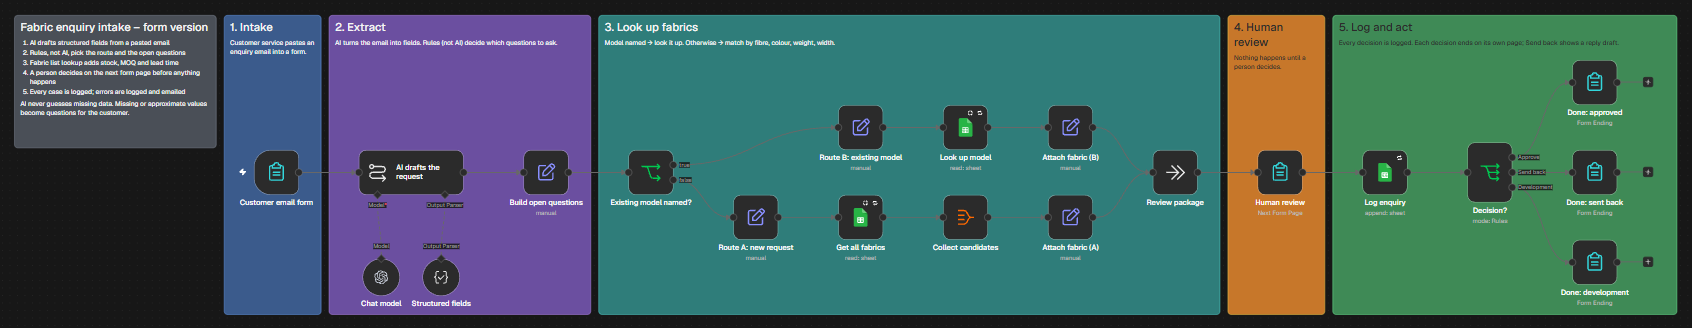
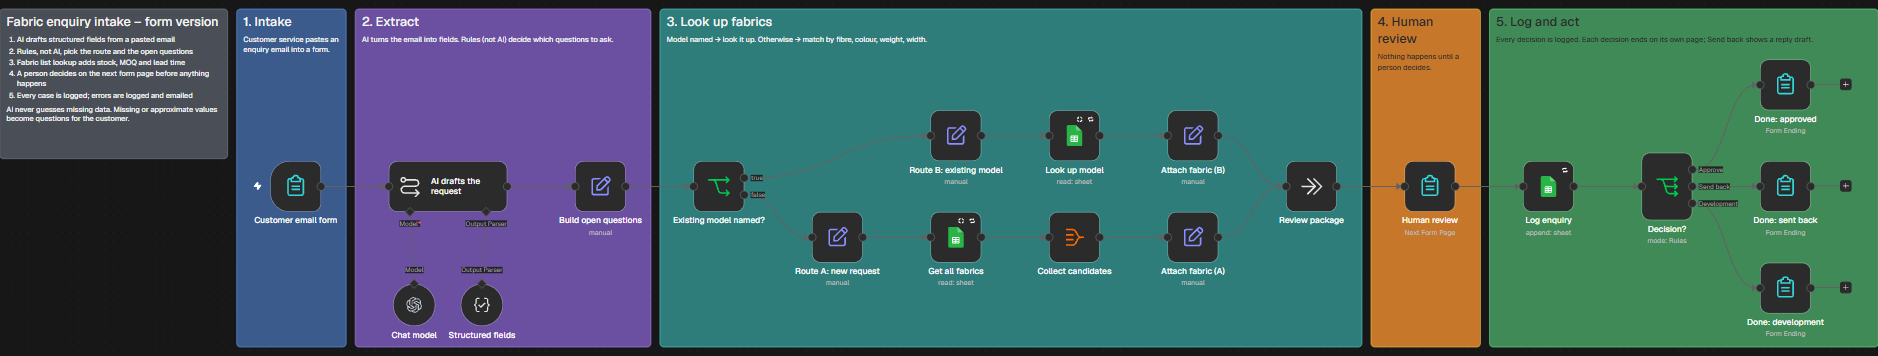
Add files via upload

Changed region(s): [[0.0, 0.0, 1.0, 1.0]]

diff --git a/case-n8n-en.html b/case-n8n-en.html
@@ -4,7 +4,7 @@
 <a class="skip" href="#main">Skip to content</a>
 <header class="site-header"><div class="wrap"><a class="logo" href="index-en.html">Keri Janschitz <small>PORTFOLIO</small></a><nav class="site-nav" aria-label="Main navigation"><a href="index-en.html#case-studies" aria-current="page">Case Studies</a><a href="index-en.html#tools">Tools</a><a href="index-en.html#playground">Playground</a><a href="index-en.html#about">About</a><a class="lang-switch" href="case-n8n.html" lang="zh-Hant" hreflang="zh-Hant" title="中文版">中文</a><a class="btn small primary" href="#c3">See the five stages</a></nav></div></header>
 <main id="main">
-<section class="cs-hero" id="top"><div class="wrap"><nav class="crumbs" aria-label="Breadcrumb"><a href="index-en.html">Portfolio home</a><span>/</span><a href="index-en.html#case-studies">Case Studies</a><span>/</span><span>n8n automation · Enquiry handling</span></nav><h1>Fabric Enquiry Workflow in n8n — AI drafts, rules decide, a person approves</h1><p class="cs-intro">A customer sends a loosely written enquiry. The workflow uses AI to turn it into fields, uses fixed rules to pick the route and list what is still missing, looks up stock and lead time in a fabric list, and emails a review request to the person in charge. Only after that person picks a decision is anything logged. When the customer needs to be asked something, a reply draft is ready, and it is never sent automatically. This is a working prototype on n8n Cloud. All data is fictional.</p><div class="actions"><a class="btn primary" href="#c3">See the five stages</a><a class="btn" href="#c4">See the five design decisions</a></div></div><div class="wrap"><ul class="cs-meta"><li>n8n · Workflow automation</li><li>Gmail · Google Sheets · LLM</li><li>2026 · Working prototype · Fictional data</li><li>Two versions: form and mailbox</li></ul></div><div class="wrap cs-hero-shots cs-hero-one"><figure><a href="assets/work-n8n-canvas.png" target="_blank" rel="noopener"><img src="assets/work-n8n-canvas.png" width="1420" height="478" alt="n8n canvas screenshot (Gmail version): intake, AI extraction, fabric lookup, human review, log and reply draft"></a><figcaption>Screenshot of the actual n8n canvas (Gmail version). The colours are my own section labels: purple is AI, teal is rules and lookups, orange is where a person decides. Click to enlarge.</figcaption></figure></div></section>
+<section class="cs-hero" id="top"><div class="wrap"><nav class="crumbs" aria-label="Breadcrumb"><a href="index-en.html">Portfolio home</a><span>/</span><a href="index-en.html#case-studies">Case Studies</a><span>/</span><span>n8n automation · Enquiry handling</span></nav><h1>Fabric Enquiry Workflow in n8n — AI drafts, rules decide, a person approves</h1><p class="cs-intro">A customer sends a loosely written enquiry. The workflow uses AI to turn it into fields, uses fixed rules to pick the route and list what is still missing, looks up stock and lead time in a fabric list, and emails a review request to the person in charge. Only after that person picks a decision is anything logged. When the customer needs to be asked something, a reply draft is ready, and it is never sent automatically. This is a working prototype on n8n Cloud. All data is fictional.</p><div class="actions"><a class="btn primary" href="#c3">See the five stages</a><a class="btn" href="#c4">See the five design decisions</a></div></div><div class="wrap"><ul class="cs-meta"><li>n8n · Workflow automation</li><li>Gmail · Google Sheets · LLM</li><li>2026 · Working prototype · Fictional data</li><li>Two versions: form and mailbox</li></ul></div><div class="wrap cs-hero-shots cs-hero-one cs-wide"><figure><a class="n8n-shot" href="assets/work-n8n-canvas.png" target="_blank" rel="noopener"><img src="assets/work-n8n-canvas.png" width="1820" height="578" alt="n8n canvas screenshot (Gmail version): intake, AI extraction, fabric lookup, human review, log and reply draft"></a><span class="n8n-swipe">Swipe sideways to see the whole workflow.</span><figcaption>Screenshot of the actual n8n canvas (Gmail version). The colours are my own section labels: purple is AI, teal is rules and lookups, orange is where a person decides. Click to enlarge.</figcaption></figure></div></section>
 
 <div class="wrap cs-layout">
 <aside class="cs-toc" aria-label="Chapters"><ol><li><a href="#c1"><span>01</span>Context</a></li><li><a href="#c2"><span>02</span>Scope</a></li><li><a href="#c3"><span>03</span>Five stages</a></li><li><a href="#c4"><span>04</span>Five decisions</a></li><li><a href="#c5"><span>05</span>When it fails</a></li><li><a href="#c6"><span>06</span>Limits</a></li></ol><a class="cs-toc-back" href="index-en.html#case-studies">← Back to Case Studies</a></aside>
@@ -19,7 +19,7 @@
 </section>
 
 <section class="cs-chapter" id="c3"><h2 class="cs-chapter-title"><span>03</span>Five stages</h2>
-<article class="cs-card"><span class="cs-label">Overview</span><h3>From incoming email to a result in five stages</h3><figure style="margin:14px 0 0"><a href="assets/work-n8n-form.png" target="_blank" rel="noopener"><img src="assets/work-n8n-form.png" width="1692" height="328" alt="n8n canvas screenshot (form version): the same five stages, with a paste-in form as the entry point" style="display:block;width:100%;height:auto;border-radius:10px"></a><figcaption style="margin-top:8px;font-size:13px;color:var(--muted)">Form version: the same five stages, with a paste-in form as the entry point and the review done on a form page. Click to enlarge.</figcaption></figure></article>
+<article class="cs-card"><span class="cs-label">Overview</span><h3>From incoming email to a result in five stages</h3><figure style="margin:14px 0 0"><a class="n8n-shot" href="assets/work-n8n-form.png" target="_blank" rel="noopener"><img src="assets/work-n8n-form.png" width="1878" height="356" alt="n8n canvas screenshot (form version): the same five stages, with a paste-in form as the entry point" style="display:block;width:100%;height:auto;border-radius:10px"></a><figcaption style="margin-top:8px;font-size:13px;color:var(--muted)">Form version: the same five stages, with a paste-in form as the entry point and the review done on a form page. Click to enlarge.</figcaption></figure></article><article class="cs-card"><span class="cs-label">Close-ups</span><h3>Each stage up close</h3><figure style="margin:14px 0 0"><a class="n8n-shot" href="assets/n8n-zoom-1-extract.png" target="_blank" rel="noopener"><img src="assets/n8n-zoom-1-extract.png" width="1146" height="600" alt="n8n close-up: intake and AI extraction" style="display:block;width:100%;height:auto;border-radius:10px;border:1px solid var(--line)"></a><figcaption style="margin-top:8px;font-size:13px;color:var(--muted)">Stages 1–2: a form takes in the email. AI only turns it into fields (with the chat model and a fixed output format attached below); the next rule node builds the questions for the customer.</figcaption></figure><figure style="margin:18px 0 0"><a class="n8n-shot" href="assets/n8n-zoom-2-lookup.png" target="_blank" rel="noopener"><img src="assets/n8n-zoom-2-lookup.png" width="1234" height="602" alt="n8n close-up: two routes for the fabric lookup" style="display:block;width:100%;height:auto;border-radius:10px;border:1px solid var(--line)"></a><figcaption style="margin-top:8px;font-size:13px;color:var(--muted)">Stage 3: first check whether the email names a model. If it does, the top row looks that one up; if not, the bottom row reads the whole fabric list and collects candidates. Both routes end in the same format.</figcaption></figure><figure style="margin:18px 0 0"><a class="n8n-shot" href="assets/n8n-zoom-3-review.png" target="_blank" rel="noopener"><img src="assets/n8n-zoom-3-review.png" width="898" height="602" alt="n8n close-up: human review and logging" style="display:block;width:100%;height:auto;border-radius:10px;border:1px solid var(--line)"></a><figcaption style="margin-top:8px;font-size:13px;color:var(--muted)">Stages 4–5: nothing happens until a person decides on the form page. The decision is logged first, then split into three end pages: approve, send back, development.</figcaption></figure></article>
 <article class="cs-card"><span class="cs-label">Stage by stage</span><h3>Each stage does one thing</h3><ul class="cs-list"><li><b>1. Intake</b>: picks up only unread emails sent to the enquiry address, keeps five fields (body, sender, subject and two conversation IDs), drops the rest, and marks the email as read so it is not processed twice.</li><li><b>2. Extract</b>: a language model translates the email into fixed fields (customer, model, fibre, colour, quantity, weight, width, use, delivery date). Anything not stated stays empty. Rules, not AI, then list the questions for the customer.</li><li><b>3. Look up fabrics</b>: if a model is named, that row is looked up. If not, fabrics are matched by fibre, colour, weight and width; conditions the customer did not give are skipped. Both routes end in the same data shape.</li><li><b>4. Human review</b>: the person in charge receives an email with the extracted fields, the fabric list result, the open questions and the original email, then picks approve, send back, or hand to development. Nothing is created or sent before this.</li><li><b>5. Log and act</b>: the decision is written to a log. On “send back”, a reply draft appears under the customer's original email. Sending it is up to the person.</li></ul></article>
 </section>
 

diff --git a/case-n8n.html b/case-n8n.html
@@ -4,7 +4,7 @@
 <a class="skip" href="#main">跳到主要內容</a>
 <header class="site-header"><div class="wrap"><a class="logo" href="index-zh.html">Keri Janschitz <small>PORTFOLIO</small></a><nav class="site-nav" aria-label="網站導覽"><a href="index-zh.html#case-studies" aria-current="page">Case Studies</a><a href="index-zh.html#tools">Tools</a><a href="index-zh.html#playground">Playground</a><a href="index-zh.html#about">About</a><a class="lang-switch" href="case-n8n-en.html" lang="en" hreflang="en" title="English version">EN</a><a class="btn small primary" href="#c3">看流程五段</a></nav></div></header>
 <main id="main">
-<section class="cs-hero" id="top"><div class="wrap"><nav class="crumbs" aria-label="路徑"><a href="index-zh.html">作品集首頁</a><span>/</span><a href="index-zh.html#case-studies">Case Studies</a><span>/</span><span>n8n 自動化 · 詢價信處理</span></nav><h1>布料詢價 n8n 流程｜AI 起草，規則決定，<span style="white-space:nowrap">人把關</span></h1><p class="cs-intro">客戶寄來一封寫得很隨意的詢價信。流程用 AI 把它整理成欄位，用固定規則決定走哪條路、還缺什麼要問，去布料表查庫存與交期，再寄一封審核信給負責的人。人選了決定之後，才寫入紀錄；需要回頭問客戶時，回信草稿已經備好，但不會自己寄出。這是在 n8n Cloud 上做的可運作原型，資料全部是虛構的。</p><div class="actions"><a class="btn primary" href="#c3">看流程五段</a><a class="btn" href="#c4">看五個設計決定</a></div></div><div class="wrap"><ul class="cs-meta"><li>n8n · 工作流程自動化</li><li>Gmail · Google Sheets · LLM</li><li>2026 · 可運作原型 · 虛構資料</li><li>兩個版本：表單、信箱</li></ul></div><div class="wrap cs-hero-shots cs-hero-one"><figure><a href="assets/work-n8n-canvas.png" target="_blank" rel="noopener"><img src="assets/work-n8n-canvas.png" width="1420" height="478" alt="n8n 畫布截圖（Gmail 版）：收信、AI 整理欄位、查布料表、人工審核、紀錄與回信草稿五段"></a><figcaption>n8n 畫布實際截圖（Gmail 版）。顏色是我在畫布上分段用的標籤：紫色段落是 AI，青綠是規則與查表，橘色是人做決定。點圖看大圖。</figcaption></figure></div></section>
+<section class="cs-hero" id="top"><div class="wrap"><nav class="crumbs" aria-label="路徑"><a href="index-zh.html">作品集首頁</a><span>/</span><a href="index-zh.html#case-studies">Case Studies</a><span>/</span><span>n8n 自動化 · 詢價信處理</span></nav><h1>布料詢價 n8n 流程｜AI 起草，規則決定，<span style="white-space:nowrap">人把關</span></h1><p class="cs-intro">客戶寄來一封寫得很隨意的詢價信。流程用 AI 把它整理成欄位，用固定規則決定走哪條路、還缺什麼要問，去布料表查庫存與交期，再寄一封審核信給負責的人。人選了決定之後，才寫入紀錄；需要回頭問客戶時，回信草稿已經備好，但不會自己寄出。這是在 n8n Cloud 上做的可運作原型，資料全部是虛構的。</p><div class="actions"><a class="btn primary" href="#c3">看流程五段</a><a class="btn" href="#c4">看五個設計決定</a></div></div><div class="wrap"><ul class="cs-meta"><li>n8n · 工作流程自動化</li><li>Gmail · Google Sheets · LLM</li><li>2026 · 可運作原型 · 虛構資料</li><li>兩個版本：表單、信箱</li></ul></div><div class="wrap cs-hero-shots cs-hero-one cs-wide"><figure><a class="n8n-shot" href="assets/work-n8n-canvas.png" target="_blank" rel="noopener"><img src="assets/work-n8n-canvas.png" width="1820" height="578" alt="n8n 畫布截圖（Gmail 版）：收信、AI 整理欄位、查布料表、人工審核、紀錄與回信草稿五段"></a><span class="n8n-swipe">左右滑動看完整流程。</span><figcaption>n8n 畫布實際截圖（Gmail 版）。顏色是我在畫布上分段用的標籤：紫色段落是 AI，青綠是規則與查表，橘色是人做決定。點圖看大圖。</figcaption></figure></div></section>
 
 <div class="wrap cs-layout">
 <aside class="cs-toc" aria-label="章節目錄"><ol><li><a href="#c1"><span>01</span>背景</a></li><li><a href="#c2"><span>02</span>範圍</a></li><li><a href="#c3"><span>03</span>流程五段</a></li><li><a href="#c4"><span>04</span>五個設計決定</a></li><li><a href="#c5"><span>05</span>出錯時怎麼辦</a></li><li><a href="#c6"><span>06</span>限制與誠實說明</a></li></ol><a class="cs-toc-back" href="index-zh.html#case-studies">← 返回 Case Studies</a></aside>
@@ -19,7 +19,7 @@
 </section>
 
 <section class="cs-chapter" id="c3"><h2 class="cs-chapter-title"><span>03</span>流程五段</h2>
-<article class="cs-card"><span class="cs-label">總覽</span><h3>一封信從進來到有結果，經過五段</h3><figure style="margin:14px 0 0"><a href="assets/work-n8n-form.png" target="_blank" rel="noopener"><img src="assets/work-n8n-form.png" width="1692" height="328" alt="n8n 畫布截圖（表單版）：同樣五段，入口改成貼信用的表單" style="display:block;width:100%;height:auto;border-radius:10px"></a><figcaption style="margin-top:8px;font-size:13px;color:var(--muted)">表單版：同樣五段，入口改成貼信用的表單，審核也在表單頁完成。點圖看大圖。</figcaption></figure></article>
+<article class="cs-card"><span class="cs-label">總覽</span><h3>一封信從進來到有結果，經過五段</h3><figure style="margin:14px 0 0"><a class="n8n-shot" href="assets/work-n8n-form.png" target="_blank" rel="noopener"><img src="assets/work-n8n-form.png" width="1878" height="356" alt="n8n 畫布截圖（表單版）：同樣五段，入口改成貼信用的表單" style="display:block;width:100%;height:auto;border-radius:10px"></a><figcaption style="margin-top:8px;font-size:13px;color:var(--muted)">表單版：同樣五段，入口改成貼信用的表單，審核也在表單頁完成。點圖看大圖。</figcaption></figure></article><article class="cs-card"><span class="cs-label">特寫</span><h3>放大看每一段</h3><figure style="margin:14px 0 0"><a class="n8n-shot" href="assets/n8n-zoom-1-extract.png" target="_blank" rel="noopener"><img src="assets/n8n-zoom-1-extract.png" width="1146" height="600" alt="n8n 特寫：收信與 AI 整理欄位" style="display:block;width:100%;height:auto;border-radius:10px;border:1px solid var(--line)"></a><figcaption style="margin-top:8px;font-size:13px;color:var(--muted)">1–2 段：表單收進一封信，AI 只負責把信整理成欄位（下方掛著語言模型與固定格式），要問客戶的問題由下一個規則節點產生。</figcaption></figure><figure style="margin:18px 0 0"><a class="n8n-shot" href="assets/n8n-zoom-2-lookup.png" target="_blank" rel="noopener"><img src="assets/n8n-zoom-2-lookup.png" width="1234" height="602" alt="n8n 特寫：查布料表的兩條路線" style="display:block;width:100%;height:auto;border-radius:10px;border:1px solid var(--line)"></a><figcaption style="margin-top:8px;font-size:13px;color:var(--muted)">3 段：先判斷信裡有沒有型號。有型號走上排直接查那一筆；沒有就走下排，讀整張布料表、挑出符合的候選，兩條路最後都整理成同一種格式。</figcaption></figure><figure style="margin:18px 0 0"><a class="n8n-shot" href="assets/n8n-zoom-3-review.png" target="_blank" rel="noopener"><img src="assets/n8n-zoom-3-review.png" width="898" height="602" alt="n8n 特寫：人工審核與紀錄" style="display:block;width:100%;height:auto;border-radius:10px;border:1px solid var(--line)"></a><figcaption style="margin-top:8px;font-size:13px;color:var(--muted)">4–5 段：人在表單頁做決定之前，什麼都不會發生。決定先寫進紀錄表，再依核准、退回、轉開發分成三個結束頁。</figcaption></figure></article>
 <article class="cs-card"><span class="cs-label">逐段說明</span><h3>每一段只做一件事</h3><ul class="cs-list"><li><b>1. 收信</b>：只抓寄到詢價專用地址的未讀信，留下內文、寄件人、主旨與對話編號五個欄位，其餘傳輸資訊丟掉，然後把信標成已讀，避免重複處理。</li><li><b>2. 整理欄位</b>：語言模型把信翻成固定欄位（客戶、型號、纖維、顏色、數量、克重、幅寬、用途、交期）。沒寫的留空。接著由規則，而不是 AI，列出要問客戶的問題。</li><li><b>3. 查布料表</b>：信裡有型號，就用型號查那一筆。沒有型號，就用纖維、顏色、克重、幅寬去比對，客戶沒寫的條件不篩。兩條路最後整理成同一種格式。</li><li><b>4. 人工審核</b>：負責人收到一封信，裡面是整理好的欄位、布料表查到的結果、待確認問題和客戶原信。點按鈕選擇：核准、退回問客戶、轉開發。在這之前，流程不會建立或寄出任何東西。</li><li><b>5. 紀錄與後續</b>：決定寫入紀錄表。選「退回問客戶」時，回信草稿會出現在原信那串對話底下，要不要寄由人決定。</li></ul></article>
 </section>
 

diff --git a/site.css b/site.css
@@ -311,3 +311,16 @@ section{padding:44px 0}
 @media(max-width:1000px){.hero.has-canvas{min-height:0;padding:56px 0 48px}}
 /* 示意圖卡片：完整顯示，不裁切 */
 .work-card .media.contain img{object-fit:contain}
+
+/* case-n8n 畫布截圖放大 */
+.wrap.cs-wide{width:min(1420px,96%)}
+.cs-wide img{max-height:none;object-fit:contain;background:#1b1b1b}
+.n8n-shot{display:block}
+.n8n-swipe{display:none;font-size:12px;color:var(--muted);margin-top:6px}
+@media(max-width:900px){.n8n-shot{overflow-x:auto;-webkit-overflow-scrolling:touch;border-radius:10px}.n8n-shot img{width:1000px!important;max-width:none!important}.n8n-swipe{display:block}}
+
+/* Case Studies 三張橫卡等高；n8n 卡片畫布底色 */
+@media(min-width:1001px){.case-cards{grid-auto-rows:1fr}}
+.work-card .media.contain{background:#1b1b1b}
+/* n8n 特寫圖手機不橫滑 */
+@media(max-width:900px){.n8n-shot img[src*="n8n-zoom"]{width:100%!important;max-width:100%!important}}
